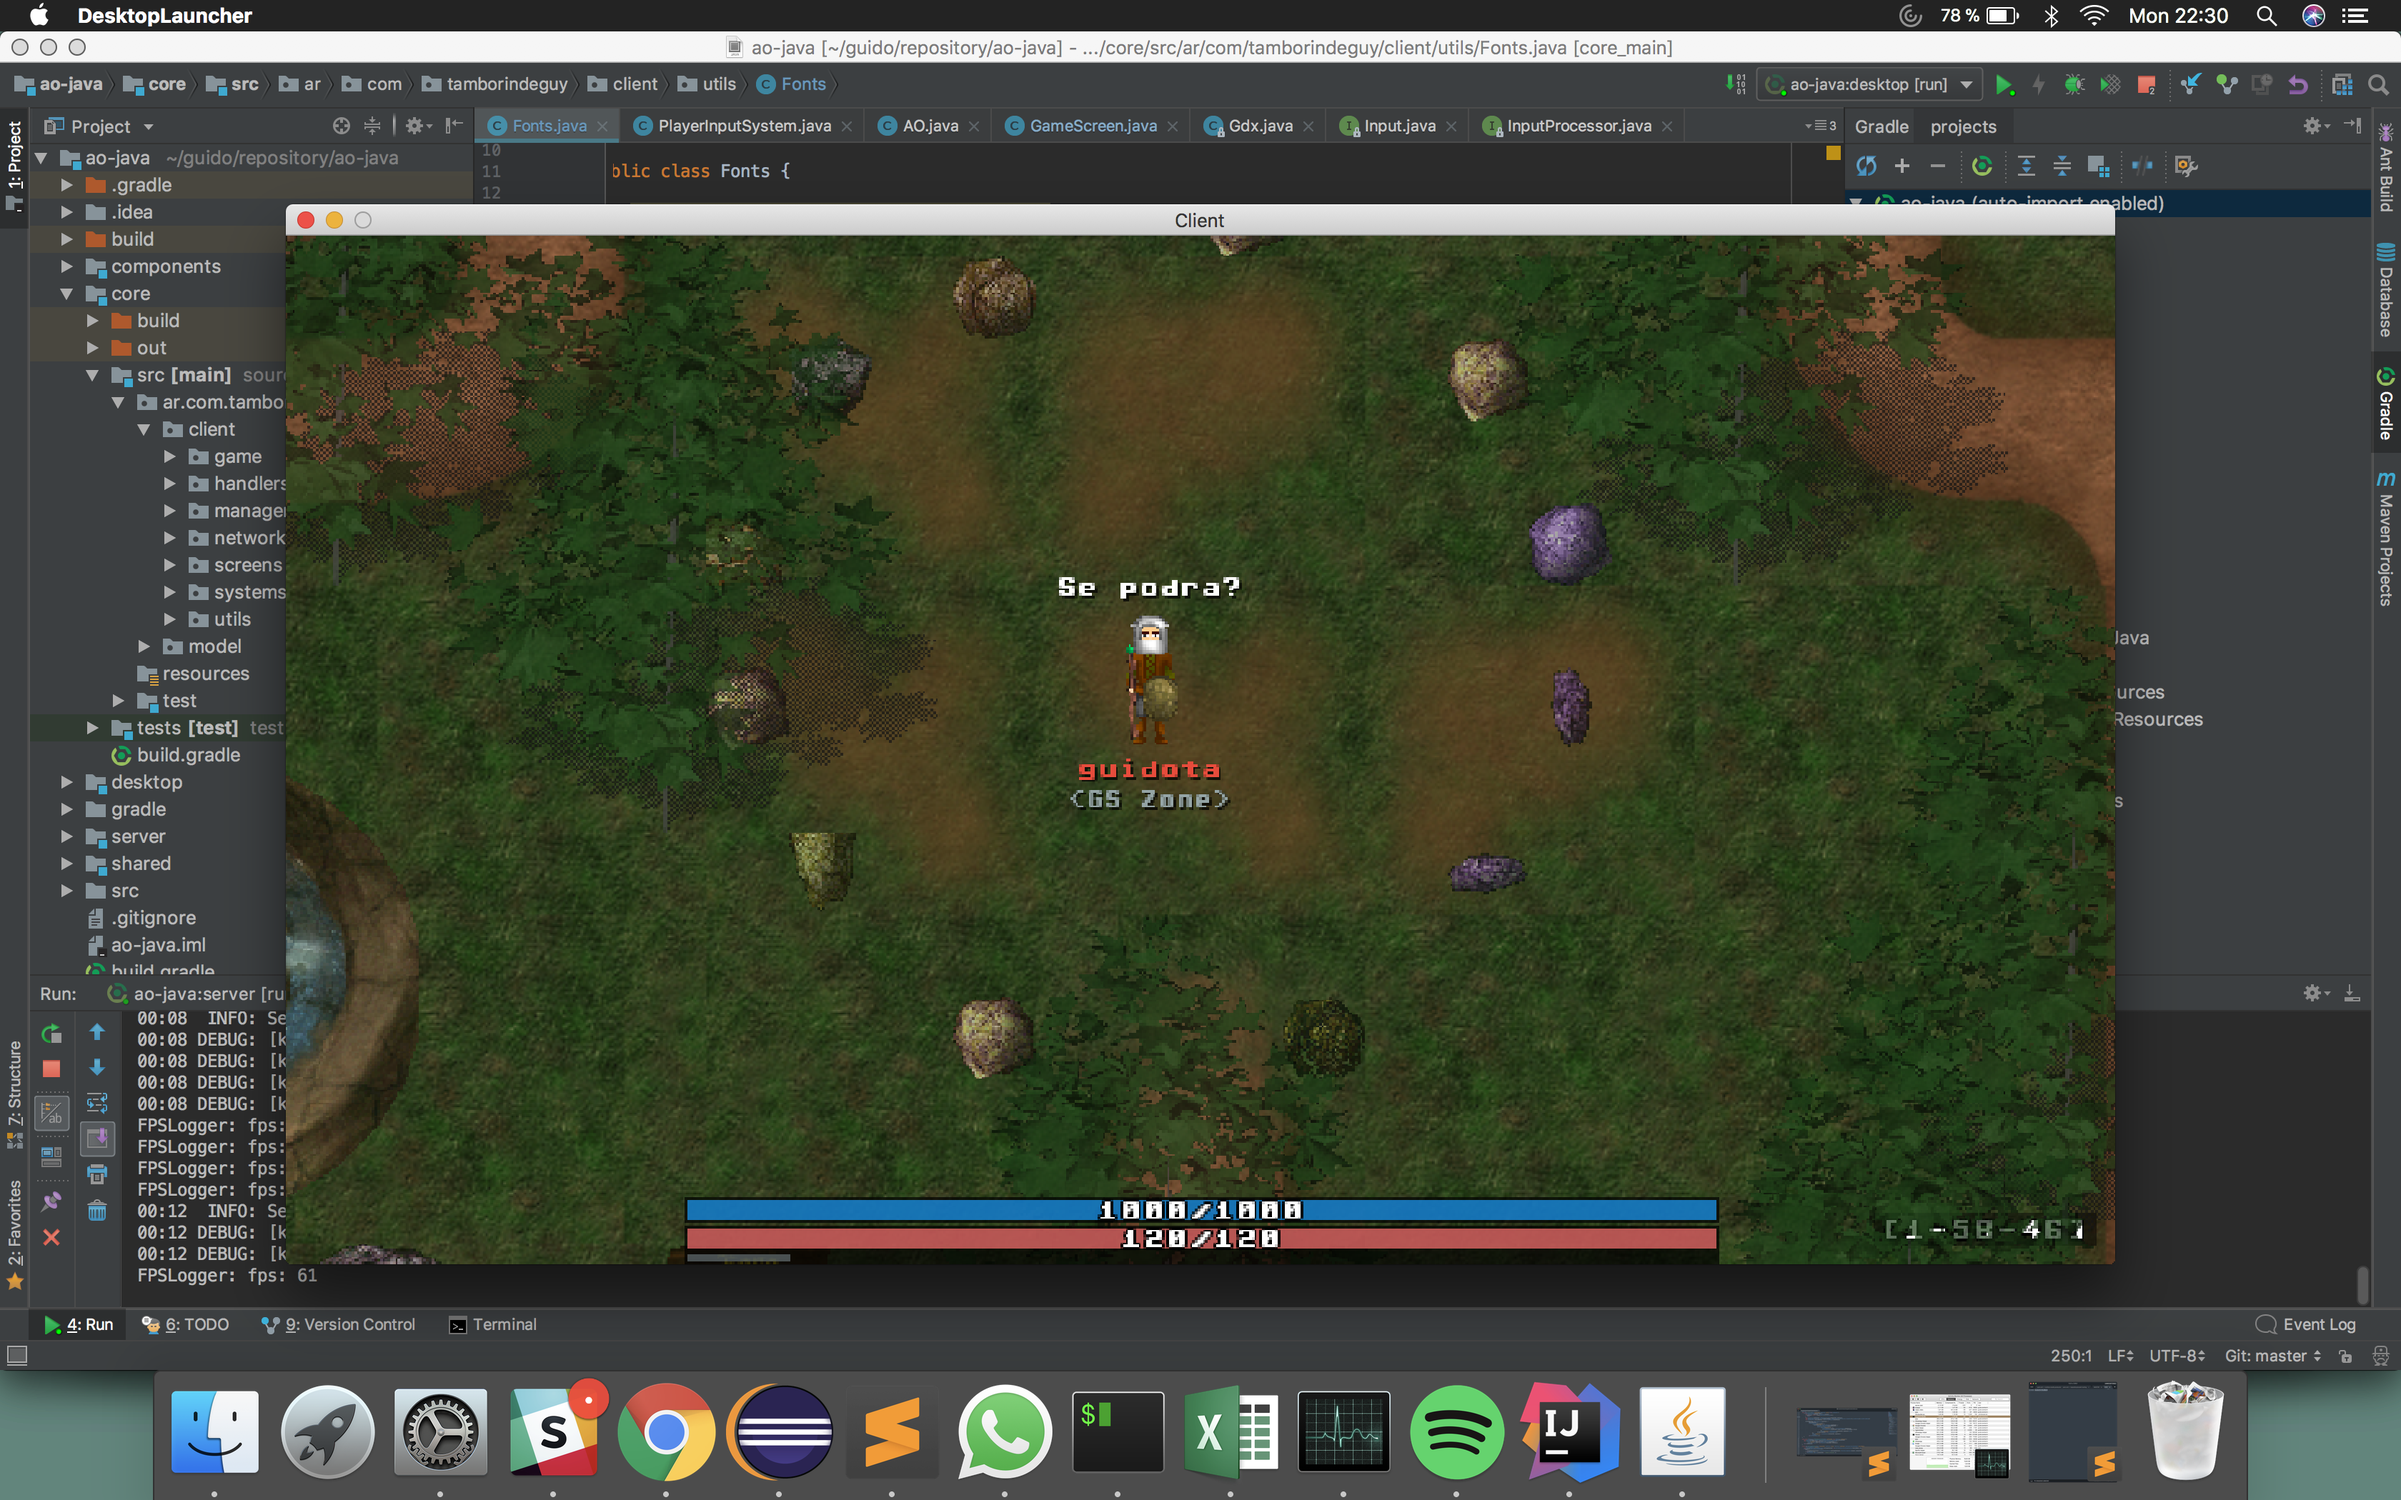
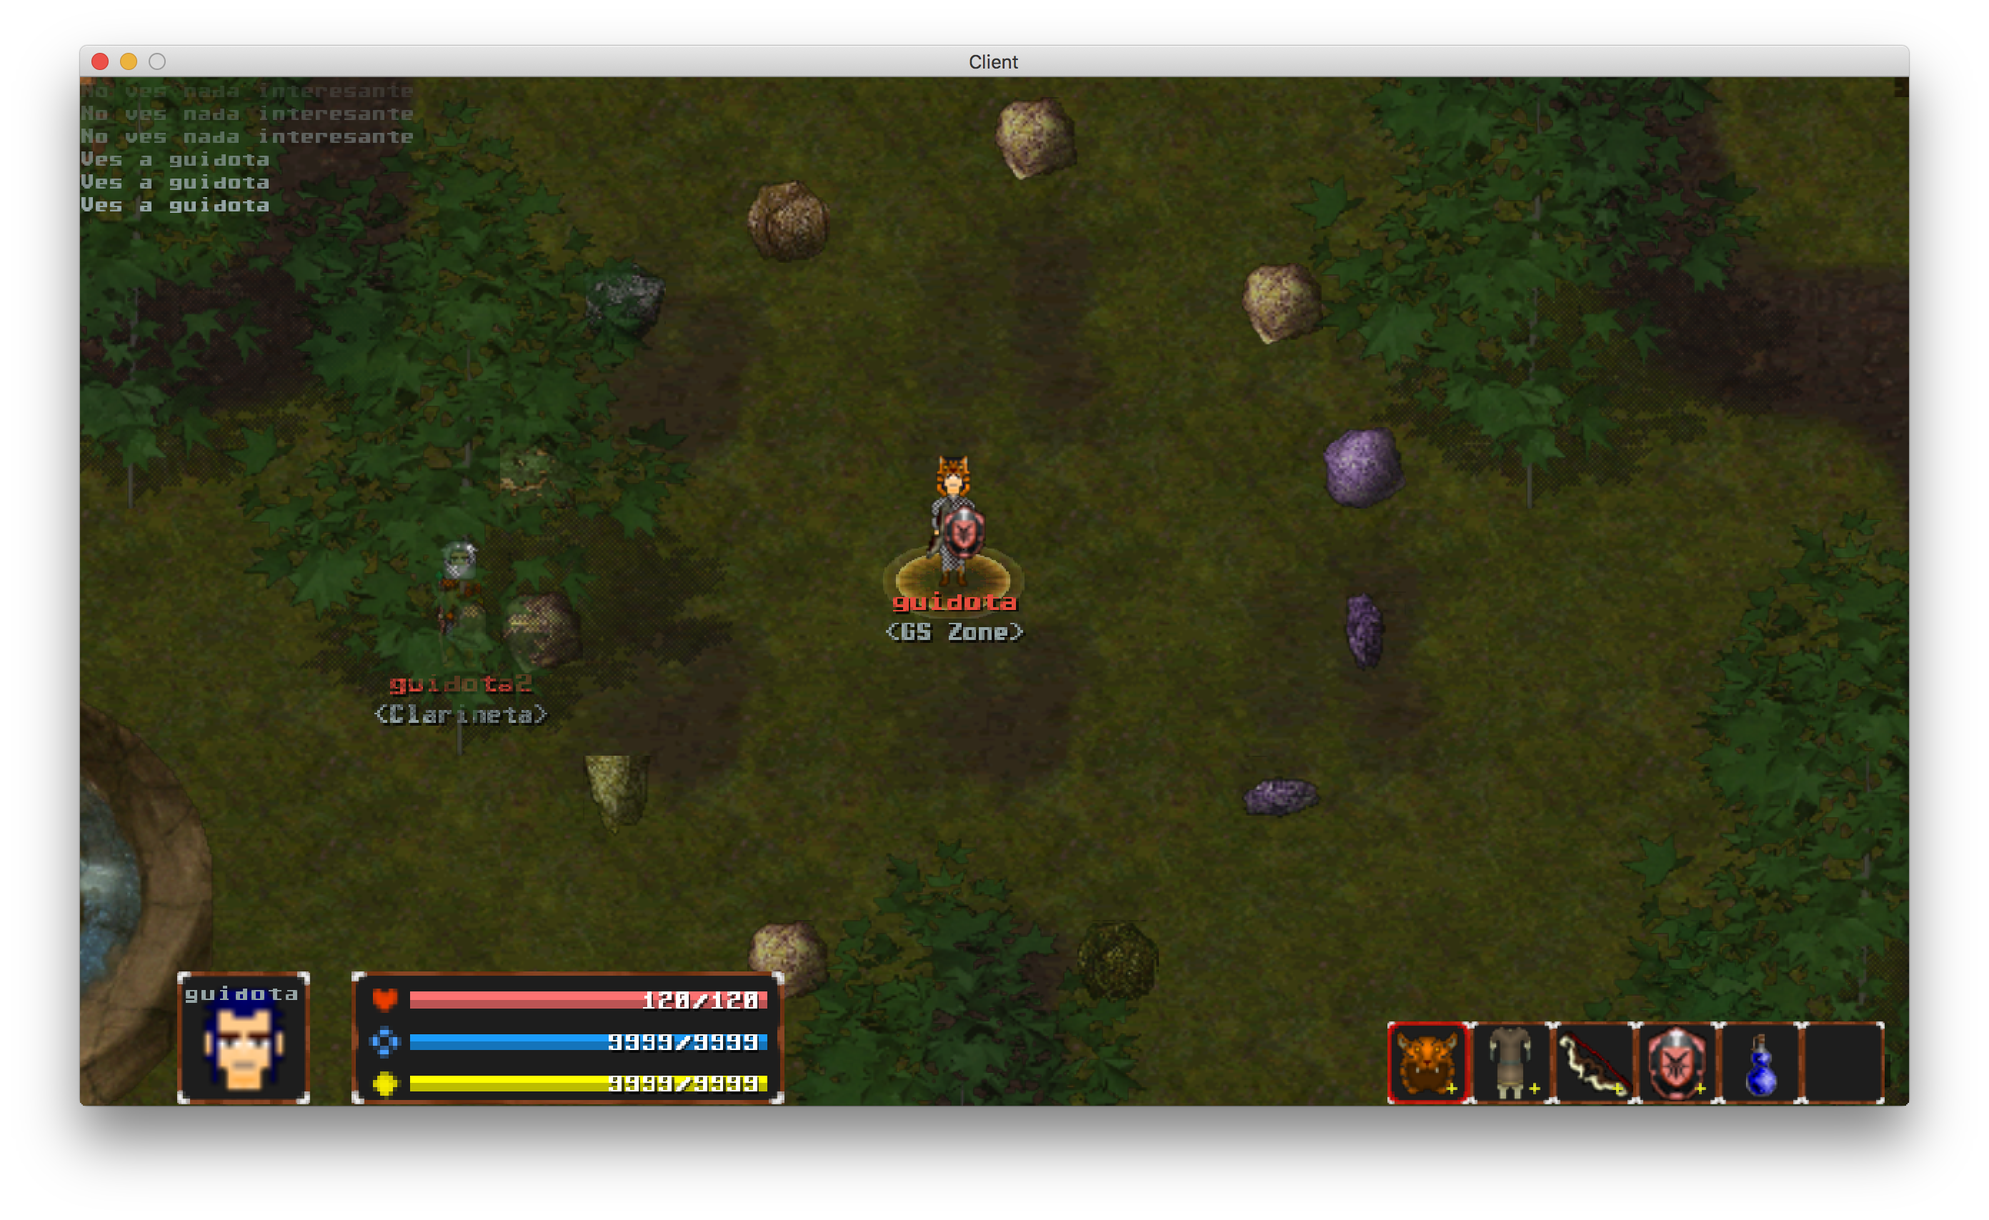
Moving console to the top. Updating readme image

diff --git a/core/src/ar/com/tamborindeguy/client/ui/user/Bar.java b/core/src/ar/com/tamborindeguy/client/ui/user/Bar.java
@@ -44,7 +44,6 @@ public class Bar extends Actor {
     @Override
     public void draw(Batch batch, float parentAlpha) {
         Color originalColor = batch.getColor();
-        batch.setColor(Color.WHITE);
 
         float barX = getX() + SPACE_WIDTH + ICON_SIZE + INTER_SPACE;
         float barY = getY() + (float) BAR_HEIGHT / 2;
@@ -63,12 +62,19 @@ public class Bar extends Actor {
                 min = E(player).getStamina().min;
                 max = E(player).getStamina().max;
         }
-        background.draw(batch, barX, barY, BAR_WIDTH, BAR_HEIGHT);
-        kind.getIcon().draw(batch, getX() + SPACE_WIDTH, getY(), ICON_SIZE, ICON_SIZE);
-        batch.setColor(kind.getColor());
-        bar.draw(batch, barX, barY, (float) min / max * BAR_WIDTH, BAR_HEIGHT);
+
+        drawBar(batch, barX, barY, min, max);
         drawText(batch, min, max, barX, barY);
         batch.setColor(originalColor);
+    }
+
+    private void drawBar(Batch batch, float barX, float barY, float min, int max) {
+        batch.setColor(Color.BLACK);
+        background.draw(batch, barX, barY, BAR_WIDTH, BAR_HEIGHT);
+        batch.setColor(Color.WHITE);
+        kind.getIcon().draw(batch, getX() + SPACE_WIDTH, getY(), ICON_SIZE, ICON_SIZE);
+        batch.setColor(kind.getColor());
+        bar.draw(batch, barX, barY, min / max * BAR_WIDTH, BAR_HEIGHT);
     }
 
     private void drawText(Batch batch, int min, int max, float barX, float barY) {

diff --git a/server/src/ar/com/tamborindeguy/manager/WorldManager.java b/server/src/ar/com/tamborindeguy/manager/WorldManager.java
@@ -58,6 +58,8 @@ public class WorldManager {
         addItem(player.getId(), Type.ARMOR);
         addItem(player.getId(), Type.WEAPON);
         addItem(player.getId(), Type.SHIELD);
+        addItem(player.getId(), Type.POTION);
+        addItem(player.getId(), Type.POTION);
         return player;
     }
 
@@ -65,10 +67,6 @@ public class WorldManager {
     private static void addItem(int player, Type type) {
         Set<Obj> objs = ObjectManager.getTypeObjects(type);
         Iterator<Obj> iterator = objs.iterator();
-        E(player).getInventory().add(iterator.next().getId());
-        E(player).getInventory().add(iterator.next().getId());
-        E(player).getInventory().add(iterator.next().getId());
-        E(player).getInventory().add(iterator.next().getId());
         E(player).getInventory().add(iterator.next().getId());
     }
 

diff --git a/core/src/ar/com/tamborindeguy/client/ui/GUI.java b/core/src/ar/com/tamborindeguy/client/ui/GUI.java
@@ -37,9 +37,12 @@ public class GUI {
     }
 
     private Actor createConsole() {
+        Container<Actor> consoleContainer = new Container<>();
         float screenH = Gdx.graphics.getHeight();
         console = new AOConsole();
-        console.setPosition(0, screenH - console.getHeight());
+        console.setY(screenH - 16*AOConsole.MAX_MESSAGES);
+        consoleContainer.setActor(console);
+        consoleContainer.setPosition(0, screenH - console.getHeight(), Align.top | Align.left);
         return console;
     }
 

diff --git a/core/src/ar/com/tamborindeguy/client/ui/AOConsole.java b/core/src/ar/com/tamborindeguy/client/ui/AOConsole.java
@@ -12,7 +12,7 @@ import java.util.LinkedList;
 
 public class AOConsole extends Actor {
 
-    private static final float MAX_MESSAGES = 6;
+    public static final float MAX_MESSAGES = 6;
     private LinkedList<Actor> messages = new LinkedList<>();
 
     AOConsole() {
@@ -35,7 +35,7 @@ public class AOConsole extends Actor {
 
     private void setY() {
         for (int i = 0; i < messages.size(); i++) {
-            messages.get(i).setY(i * 16);
+            messages.get(i).setY(getY() + i * 16);
         }
     }
 

diff --git a/components/src/entity/character/info/Inventory.java b/components/src/entity/character/info/Inventory.java
@@ -6,7 +6,8 @@ import java.util.Optional;
 import java.util.stream.Stream;
 
 public class Inventory extends Component {
-    public Item[] items = new Item[20];
+    private final static int SIZE = 6;
+    public Item[] items = new Item[SIZE];
     public Item[] shortcuts = new Item[4];
 
     public Inventory() {
